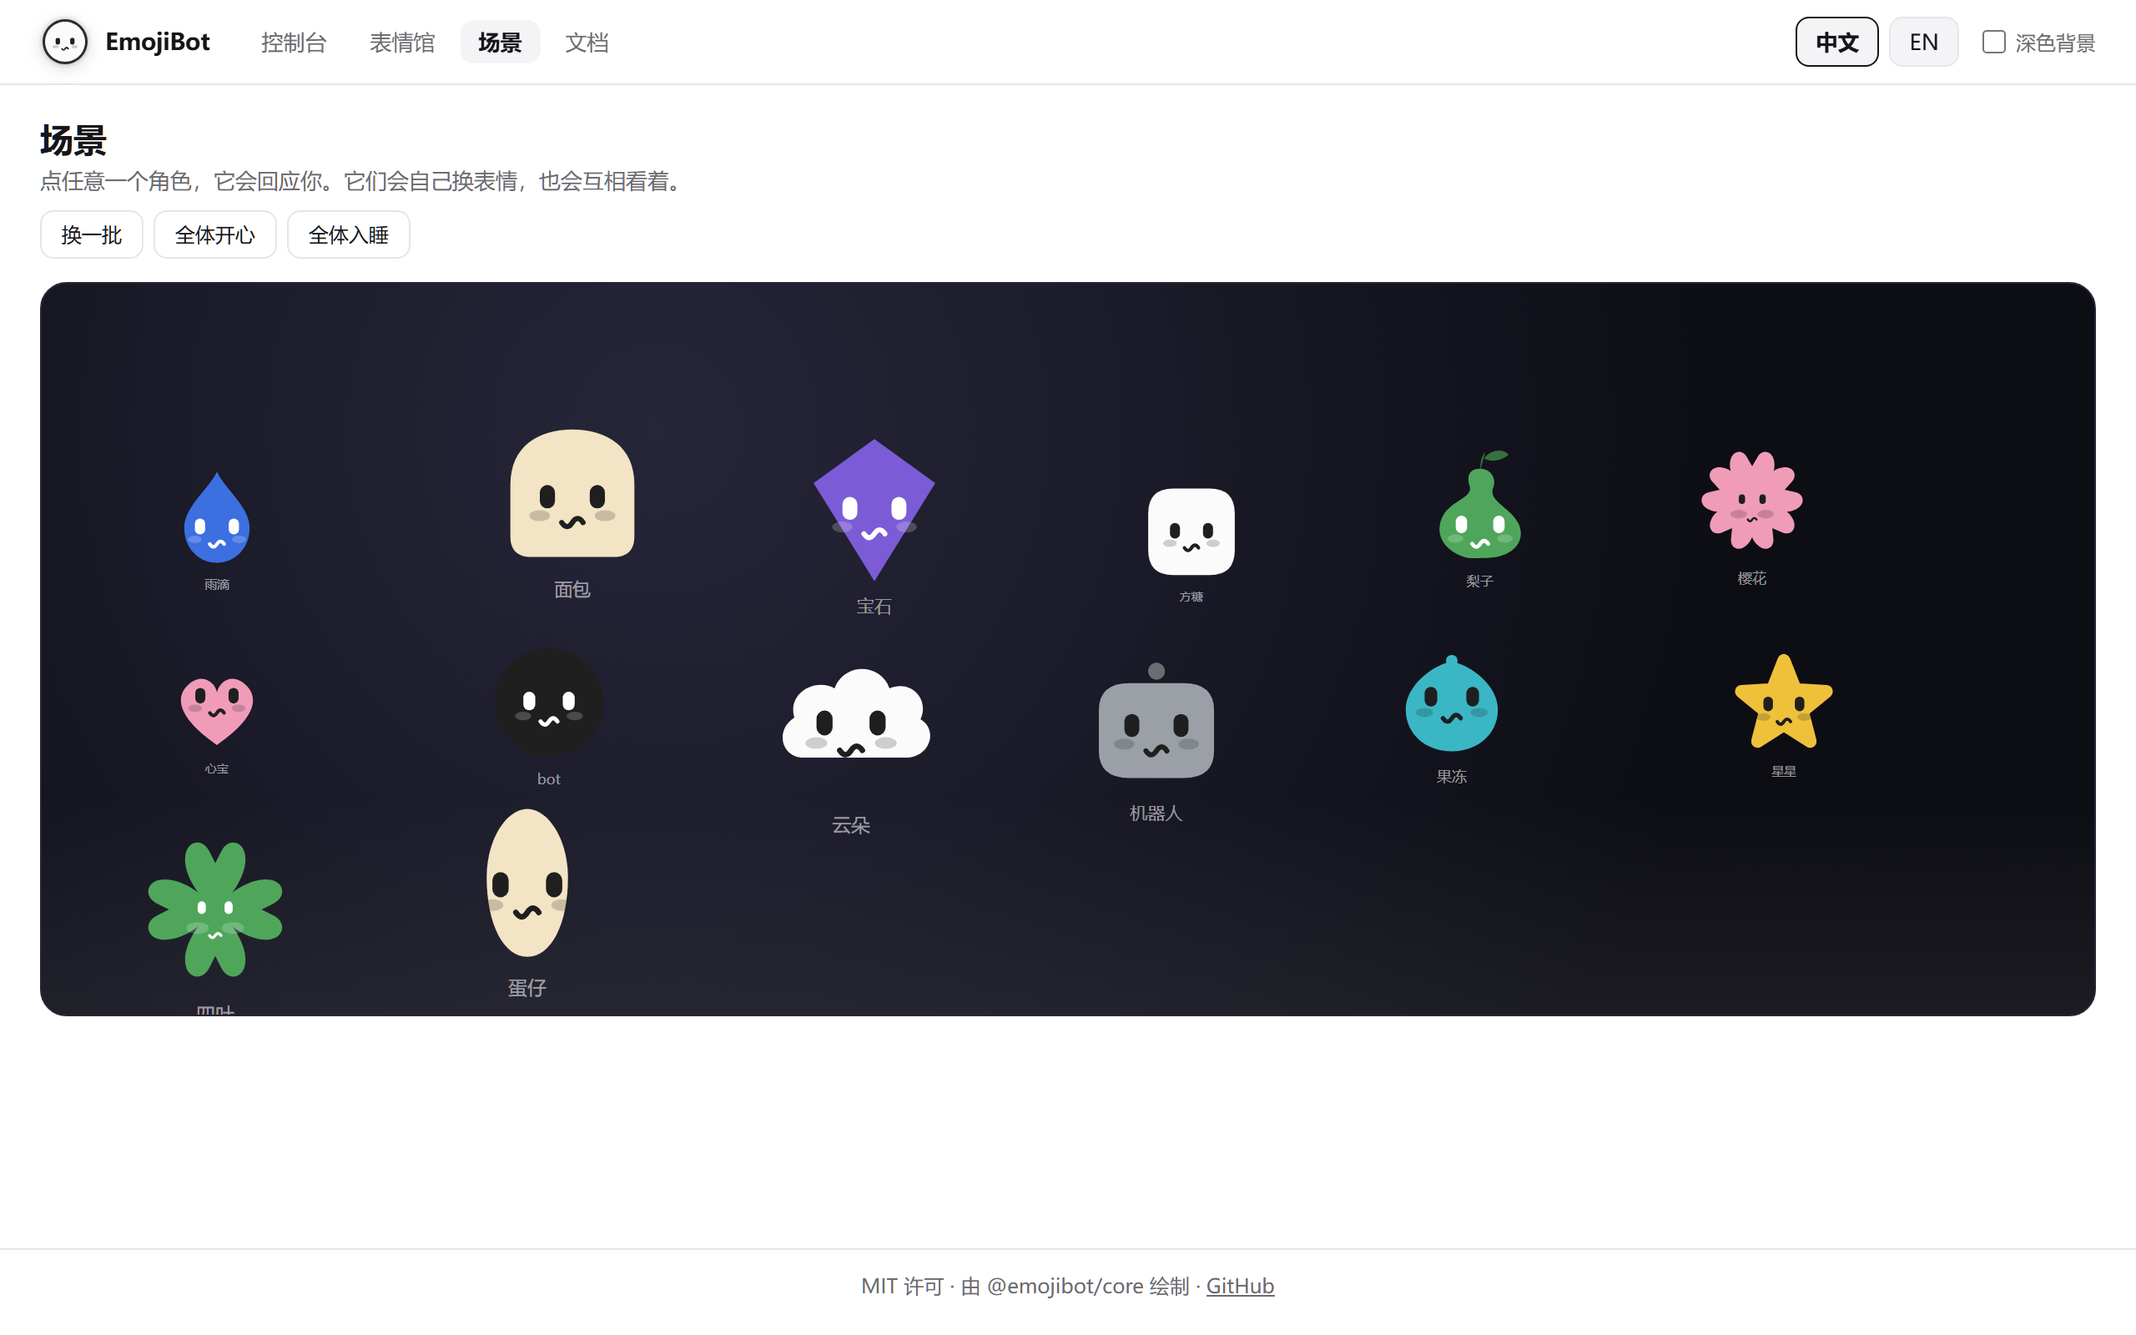
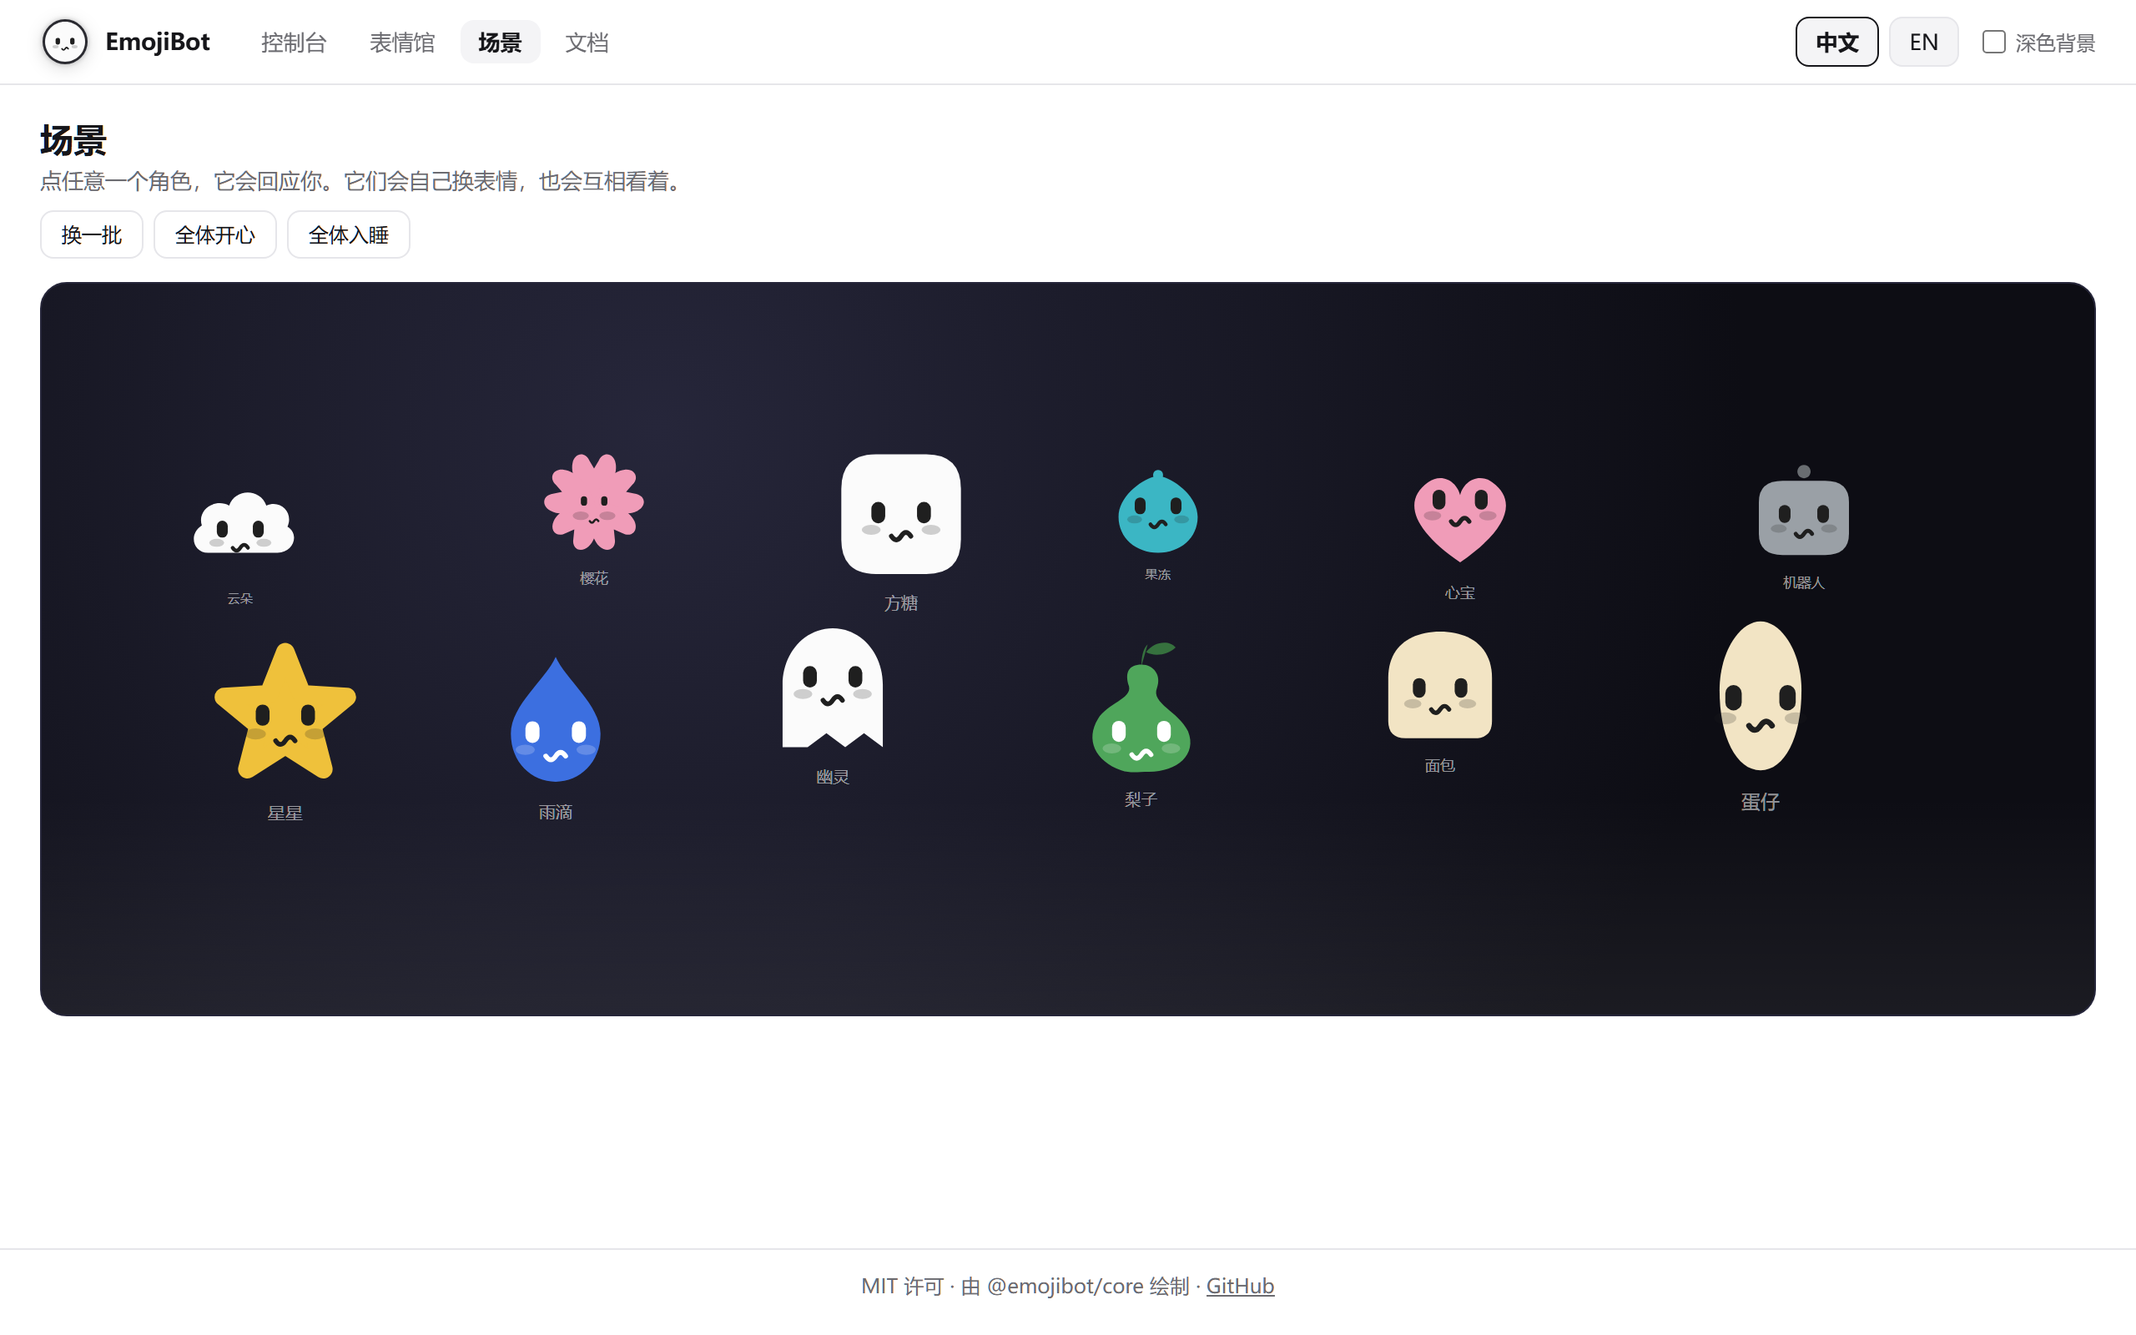
release: v0.2.0 — hand-written outlines, named states, die-cut finish
Version bumped across the workspace. The console gained a sticker/flat
switch, the gallery groups expressions by lifecycle / emotion / agent, the
scene renders in the current finish, and the docs tables now read FACE_META
instead of a hand-maintained list.

diff --git a/apps/gallery/src/docs.ts b/apps/gallery/src/docs.ts
@@ -2,12 +2,12 @@
  * The documentation, written for the person who has to ship a character.
  *
  * Four questions in the order they are asked: what is this, how is a character
- * built, what do the numbers mean, and how do I call it. The protocol table is
- * generated from the engine rather than typed, so a state added today appears
- * here today — the alternative is a doc that quietly lies.
+ * built, what do the numbers mean, and how do I call it. The tables are read
+ * from the engine rather than typed, so a state added today appears here today
+ * — the alternative is a doc that quietly lies.
  */
-import { BODIES, CAST, FACES, TRAIT_IDS, FAMILIES, breed, castMember } from '@emojibot/core';
-import { EMOTIONS, EMOTION_SEGMENTS } from '@emojibot/protocol';
+import { BODIES, CAST, FACES, FACE_META, FAMILIES, breed, castMember, renderCast } from '@emojibot/core';
+import { EMOTIONS } from '@emojibot/protocol';
 
 function section(name: string, body: string): string {
   return `<section class="doc-section"><h2>${name}</h2>${body}</section>`;
@@ -19,13 +19,15 @@ function table(head: string[], rows: string[][]): string {
     .join('')}</tbody></table>`;
 }
 
+const GROUP_ZH: Record<string, string> = { life: '生命周期', emotion: '情绪反应', agent: '代理工作' };
+
 export function createDocs(): HTMLElement {
   const el = document.createElement('div');
   el.className = 'docs-view';
 
   const emotionTable = table(
-    ['id', '状态', '分组', '名称'],
-    EMOTIONS.map((d) => [`#${d.id}`, d.state, EMOTION_SEGMENTS.find((s) => s.id === d.segment)?.name.zh ?? '', d.name.zh]),
+    ['id', '状态', '分组', '中文名', '它会怎么做'],
+    FACE_META.map((m) => [`#${m.id}`, m.id, GROUP_ZH[m.group] ?? m.group, m.name, m.desc]),
   );
 
   const familyTable = table(
@@ -37,32 +39,39 @@ export function createDocs(): HTMLElement {
     }),
   );
 
-  const sample = breed(castMember('maomi')!, castMember('yinghua')!, 7);
+  const sample = breed(castMember('lizi')!, castMember('yinghua')!, 7);
 
-  const intro = `<p>一个由公式画出来的角色引擎。没有精灵图、没有动画文件：每个身体是一条可计算的轮廓，
-      每张脸是一组眼型与嘴型，每个配件都会根据它所在的身体自动找位置。</p>
-      <p>引擎之上是 ${CAST.length} 个角色、${Object.keys(FACES).length} 个表情、${BODIES.length} 种身体、
-      ${TRAIT_IDS.length} 种特征。桌宠与控制台共用同一套代码。</p>`;
+  const intro = `<p>一个用 SVG 画出来的角色引擎。没有精灵图、没有动画文件：每个身体是一条手写的闭合轮廓，
+      每张脸是一组眼型与嘴型，每个角色只有轮廓、五官和它天生带着的那几件东西。</p>
+      <p>引擎之上是 ${CAST.length} 个角色、${FACE_META.length} 个表情、${BODIES.length} 种轮廓、2 种画风。
+      桌宠、控制台、站点共用同一套代码。</p>`;
 
-  const genomeDoc = `<p>一个角色由四项组成，没有一项是图片：</p>
+  const genomeDoc = `<p>一个角色由三项组成，没有一项是图片：</p>
       <ul>
-        <li><b>body</b> — 身体，来自 ${BODIES.length} 条参数化轮廓（${BODIES.slice(0, 6).map((b) => b.id).join(', ')} …）</li>
-        <li><b>color</b> — 12 种实色；脸的颜色按亮度自动取反</li>
-        <li><b>traits</b> — 特征，${TRAIT_IDS.length} 种，会贴着身体找位置</li>
-        <li><b>state</b> — 表情，见下面的协议表</li>
+        <li><b>body</b> — 轮廓，${BODIES.length} 条手写闭合路径（${BODIES.slice(0, 6).map((b) => b.id).join(', ')} …）；
+            梨有腰和梗叶、面包有拱顶平底、星星的五个角是真的角</li>
+        <li><b>color</b> — 12 种实色；五官的墨色按亮度自动取反</li>
+        <li><b>face</b> — 表情，${FACE_META.length} 个状态，见下面的协议表</li>
       </ul>
+      <h3>画风</h3>
+      <p>同一份轮廓有两种表面处理：<b>sticker</b>（模切白边，近白的身体自动换深色边）和 <b>flat</b>（纯色平涂）。
+      它只是一个参数，不改变任何几何：</p>
+      <pre class="snippet"><code>renderCast({ id: 'lizi', state: 'happy', style: 'sticker', size: 96 })</code></pre>
       <h3>繁衍</h3>
       <p>两个角色可以交叉出新的组合，不落库、不留痕：</p>
-      <pre class="snippet"><code>breed(castMember('maomi'), castMember('yinghua'), 7)
-// → ${sample.name.zh} · ${sample.body} · ${sample.color} · ${sample.traits.join(' ')}</code></pre>`;
+      <pre class="snippet"><code>breed(castMember('lizi'), castMember('yinghua'), 7)
+// → ${sample.name.zh} · ${sample.body} · ${sample.color}</code></pre>`;
 
-  const callDoc = `<pre class="snippet"><code>&lt;emojibot-ball body="circle" color="cream" traits="catEar blush" state="happy"&gt;&lt;/emojibot-ball&gt;
+  const callDoc = `<pre class="snippet"><code>&lt;emojibot-ball cast="lizi" finish="sticker" state="happy"&gt;&lt;/emojibot-ball&gt;
 
-import { renderCast, renderCharacter, breed } from '@emojibot/core';
+import { renderCast, faceMeta, facesInGroup } from '@emojibot/core';
 
-renderCast({ id: 'maomi', state: 'happy', size: 96 });
-renderCharacter({ body: 'pear', color: 'green', traits: ['sprout'], state: 'idle', size: 96 });</code></pre>
-      <p>特征清单：${TRAIT_IDS.join('、')}。</p>`;
+renderCast({ id: 'lizi', state: 'happy', size: 96 });
+faceMeta('sleeping');        // { id, name: '睡眠', group: 'life', desc: '闭眼成细线…' }
+facesInGroup('agent');       // 21 个代理状态，按表顺序</code></pre>
+      <p>表情按三组归档：生命周期 ${FACE_META.filter((m) => m.group === 'life').length} 个、
+      情绪反应 ${FACE_META.filter((m) => m.group === 'emotion').length} 个、
+      代理工作 ${FACE_META.filter((m) => m.group === 'agent').length} 个。</p>`;
 
   el.innerHTML = [
     section('这是什么', intro),

diff --git a/apps/gallery/src/wall.ts b/apps/gallery/src/wall.ts
@@ -2,34 +2,26 @@
  * The gallery: the cast wall, and the expression wall.
  *
  * Two walls, because there are two things to browse. The cast wall answers
- * "what characters are there" — 134 members in fifteen bodies, filterable by
- * family. The expression wall answers "what does a character look like when it
- * feels something" — all forty-four states of one character, or one state
- * across the whole cast.
+ * "what characters are there" — fifteen, one per hand-written outline. The
+ * expression wall answers "what does a character look like when it feels
+ * something" — all forty-four states, grouped by whether the ball is alive,
+ * feeling, or working.
  *
  * Every tile is a real render from the engine, produced once and left as
- * static SVG: the wall never runs a frame loop, so 134 characters cost 134
- * paths, not 134 animations.
+ * static SVG: the wall never runs a frame loop.
  */
-import { CAST, FAMILIES, MOTION_ZH, castMember, renderCast, renderCharacter } from '@emojibot/core';
-import { EMOTIONS, EMOTION_SEGMENTS, getEmotion, type SegmentId } from '@emojibot/protocol';
+import { CAST, FACE_META, FAMILIES, MOTION_ZH, castMember, facesInGroup, renderCast } from '@emojibot/core';
 import { look, onLookChange, selectCast } from './store';
 import { t } from './i18n';
 
 const THUMB = 108;
 
 function currentSvg(state: string, size = THUMB): string {
-  return renderCharacter({
-    body: look.body,
-    color: look.color,
-    traits: look.traits,
-    state,
-    size,
-  });
+  return renderCast({ id: look.cast || CAST[0].id, state, size, style: look.finish });
 }
 
 function castSvg(id: string, state: string, size = THUMB): string {
-  return renderCast({ id, state, size });
+  return renderCast({ id, state, size, style: look.finish });
 }
 
 function castCard(id: string): string {
@@ -55,7 +47,7 @@ export function createWall(): HTMLElement {
 
   let tab: 'cast' | 'emotion' = 'cast';
   let family = 'all';
-  let segment: 'all' | SegmentId = 'all';
+  let segment: 'all' | 'life' | 'emotion' | 'agent' = 'all';
 
   el.innerHTML = `
     <section class="wall-head">
@@ -81,8 +73,13 @@ export function createWall(): HTMLElement {
         .map((o) => `<button type="button" data-family="${o.id}" aria-pressed="${o.id === family}">${o.label}</button>`)
         .join('');
     } else {
-      const options = [{ id: 'all', label: t('wall.all') }, ...EMOTION_SEGMENTS.map((s) => ({ id: s.id, label: s.name.zh }))];
-      filters.innerHTML = options
+      const groups = [
+        { id: 'all', label: t('wall.all') },
+        { id: 'life', label: '生命周期' },
+        { id: 'emotion', label: '情绪反应' },
+        { id: 'agent', label: '代理工作' },
+      ];
+      filters.innerHTML = groups
         .map((o) => `<button type="button" data-segment="${o.id}" aria-pressed="${o.id === segment}">${o.label}</button>`)
         .join('');
     }
@@ -95,16 +92,9 @@ export function createWall(): HTMLElement {
       grid.innerHTML = list.map((m) => castCard(m.id)).join('');
       return;
     }
-    const list =
-      segment === 'all'
-        ? EMOTIONS
-        : EMOTIONS.filter((d) => {
-            const range = EMOTION_SEGMENTS.find((s) => s.id === segment)!.range;
-            const n = Number(d.id);
-            return n >= range[0] && n <= range[1];
-          });
-    count.textContent = `${list.length} / ${EMOTIONS.length} 个状态`;
-    grid.innerHTML = list.map((d) => stateCard(d.id, d.state, d.name.zh)).join('');
+    const list = segment === 'all' ? FACE_META : facesInGroup(segment);
+    count.textContent = `${list.length} / ${FACE_META.length} 个状态`;
+    grid.innerHTML = list.map((m) => stateCard(m.id, m.id, m.name)).join('');
   }
 
   function paintTabs(): void {
@@ -136,7 +126,7 @@ export function createWall(): HTMLElement {
     }
     const segBtn = target.closest<HTMLElement>('[data-segment]');
     if (segBtn) {
-      segment = segBtn.dataset.segment as 'all' | SegmentId;
+      segment = segBtn.dataset.segment as 'all' | 'life' | 'emotion' | 'agent';
       paintFilters();
       paintGrid();
       return;
@@ -149,10 +139,7 @@ export function createWall(): HTMLElement {
     }
     const state = target.closest<HTMLElement>('[data-state]');
     if (state) {
-      const emotion = getEmotion(state.dataset.id!);
-      if (emotion) {
-        location.hash = `#/console?state=${emotion.state}`;
-      }
+      location.hash = `#/console?state=${state.dataset.state}`;
     }
   });
 

diff --git a/apps/gallery/src/console.ts b/apps/gallery/src/console.ts
@@ -7,21 +7,25 @@
  * through the custom element, so the editor is not limited by what an
  * attribute can express; the element is what the snippet hands you.
  */
-import { castMember, renderCharacter } from '@emojibot/core';
+import { castMember, renderCast } from '@emojibot/core';
 import { createDrawer } from './drawer';
-import { backgroundClass, look, onLookChange } from './store';
+import { backgroundClass, look, onLookChange, setLook } from './store';
 
 function hero(size = 260): string {
-  return renderCharacter({ body: look.body, color: look.color, traits: look.traits, state: look.state, size });
+  const id = look.cast || 'bot';
+  return renderCast({ id, state: look.state, size, style: look.finish });
 }
 
 function snippet(): string {
-  const traits = look.traits.length ? ` traits="${look.traits.join(' ')}"` : '';
-  return `<emojibot-ball body="${look.body}" color="${look.color}"${traits} state="${look.state}"></emojibot-ball>`;
+  const id = look.cast || 'bot';
+  const finish = look.finish === 'flat' ? ' finish="flat"' : '';
+  return `<emojibot-ball cast="${id}"${finish} state="${look.state}"></emojibot-ball>`;
 }
 
 function genome(): string {
-  return JSON.stringify({ body: look.body, color: look.color, traits: look.traits, state: look.state }, null, 2);
+  const id = look.cast || 'bot';
+  const member = castMember(id);
+  return JSON.stringify({ cast: id, state: look.state, finish: look.finish, body: member?.body }, null, 2);
 }
 
 export function createConsole(): HTMLElement {
@@ -38,6 +42,9 @@ export function createConsole(): HTMLElement {
           <button type="button" data-act="spin">自旋</button>
           <button type="button" data-act="bounce">弹跳</button>
           <button type="button" data-act="burst">撒花</button>
+          <span class="sep"></span>
+          <button type="button" data-finish="sticker" aria-pressed="true">贴纸</button>
+          <button type="button" data-finish="flat" aria-pressed="false">平涂</button>
         </div>
         <div class="who" id="who"></div>
       </div>
@@ -68,9 +75,15 @@ export function createConsole(): HTMLElement {
     genomeEl.textContent = genome();
     const member = look.cast ? castMember(look.cast) : undefined;
     who.textContent = member ? `${member.name.zh} · ${member.name.en} · ${member.desc}` : '自定义组合';
+    for (const b of el.querySelectorAll<HTMLElement>('[data-finish]')) b.setAttribute('aria-pressed', String(b.dataset.finish === look.finish));
   }
 
   el.addEventListener('click', (event) => {
+    const finishBtn = (event.target as HTMLElement).closest<HTMLElement>('[data-finish]');
+    if (finishBtn) {
+      setLook({ finish: finishBtn.dataset.finish as 'sticker' | 'flat' });
+      return;
+    }
     const target = (event.target as HTMLElement).closest<HTMLElement>('[data-act], #copy, #copy-json');
     if (!target) return;
     const act = target.dataset.act;

diff --git a/apps/gallery/src/scene.ts b/apps/gallery/src/scene.ts
@@ -10,9 +10,10 @@
  * animating forty SVG paths per frame would be a poor use of a browser.
  */
 import { CAST, castMember, renderCast } from '@emojibot/core';
+import { look } from './store';
 import { t } from './i18n';
 
-const HERD = 14;
+const HERD = 12;
 const MOODS = ['idle', 'happy', 'excited', 'shy', 'curious', 'sleeping', 'laughing', 'thinking'];
 
 interface Actor {
@@ -108,7 +109,7 @@ export function createScene(): HTMLElement {
         const mood = kind === 'party' ? 'celebrate' : 'sleeping';
         for (const a of actors) {
           const svg = a.el.querySelector('.actor-svg');
-          if (svg) svg.innerHTML = renderCast({ id: a.id, state: mood, size: 110 });
+          if (svg) svg.innerHTML = renderCast({ id: a.id, state: mood, size: 110 , style: look.finish });
           a.el.classList.add(kind === 'party' ? 'cheer' : 'doze');
           setTimeout(() => a.el.classList.remove('cheer', 'doze'), 2200);
         }
@@ -118,12 +119,12 @@ export function createScene(): HTMLElement {
     const actor = target.closest<HTMLElement>('.actor');
     if (actor) {
       const svg = actor.querySelector('.actor-svg');
-      if (svg) svg.innerHTML = renderCast({ id: actor.dataset.id!, state: 'laughing', size: 110 });
+      if (svg) svg.innerHTML = renderCast({ id: actor.dataset.id!, state: 'laughing', size: 110 , style: look.finish });
       actor.classList.add('poke');
       setTimeout(() => {
         actor.classList.remove('poke');
         const svg2 = actor.querySelector('.actor-svg');
-        if (svg2) svg2.innerHTML = renderCast({ id: actor.dataset.id!, state: 'happy', size: 110 });
+        if (svg2) svg2.innerHTML = renderCast({ id: actor.dataset.id!, state: 'happy', size: 110 , style: look.finish });
       }, 600);
     }
   });

diff --git a/apps/gallery/src/zh.ts b/apps/gallery/src/zh.ts
@@ -9,12 +9,25 @@
 export const SHAPE_ZH: Record<string, string> = {
   circle: '圆',
   egg: '蛋',
-  squircle: '圆角方',
+  squircle: '方圆',
+  blob: '软圆',
+  pear: '梨',
+  drop: '水滴',
   star: '星星',
-  heart: '心',
+  gem: '宝石',
+  pill: '面包',
+  flower: '樱花',
+  clover: '四叶',
   cloud: '云',
+  heart: '心',
   ghost: '幽灵',
   bot: '机器人',
+};
+
+/** The two finishes, in the words the console buttons use. */
+export const FINISH_ZH: Record<string, string> = {
+  sticker: '贴纸',
+  flat: '平涂',
 };
 
 export const COLOR_ZH: Record<string, string> = {

diff --git a/apps/gallery/src/store.ts b/apps/gallery/src/store.ts
@@ -17,6 +17,8 @@ export interface Look {
   color: string;
   traits: string[];
   state: string;
+  /** How the ball is painted: die-cut sticker, or the quiet flat fill. */
+  finish: 'sticker' | 'flat';
   background: BackgroundId;
 }
 
@@ -28,6 +30,7 @@ const DEFAULTS: Look = {
   color: seed.color,
   traits: [...seed.traits],
   state: 'idle',
+  finish: 'sticker',
   background: 'plain',
 };
 
